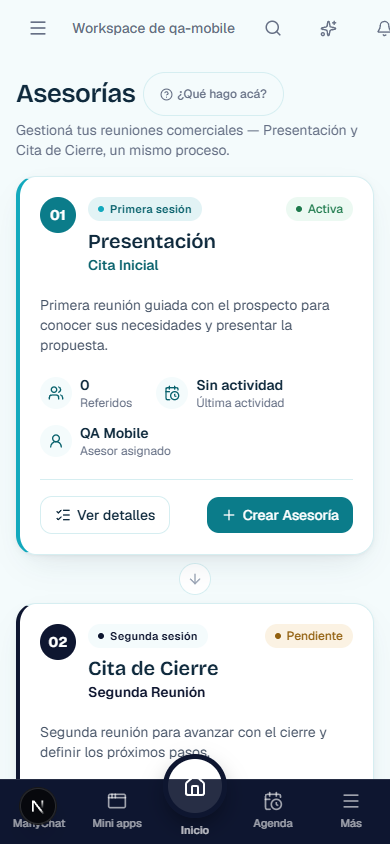
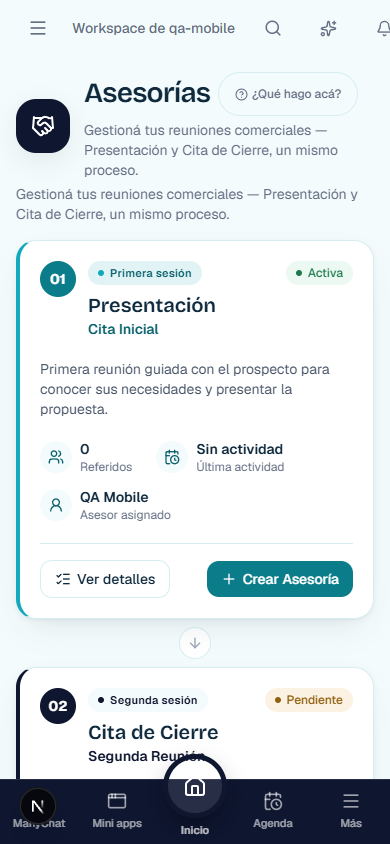
feat(rediseno): ícono y PageHeader en las páginas de solo título
Diez páginas escribían su título a mano sin ícono (Agentes IA,
Presentaciones, Importar/Exportar, Asistente, Aseguradoras, Prospectos,
Asesorías, Operaciones, ATS y Automatizaciones). Ahora usan PageHeader
con un ícono específico de cada función. PageHeader acepta un
titleAdornment para el botón de ayuda del módulo.

Changed region(s): [[0.0308, 0.0924, 0.8923, 0.6161], [0.0308, 0.5237, 0.9538, 0.9242], [0.6769, 0.2156, 0.9231, 0.2773]]

diff --git a/src/app/(protected)/automatizaciones/page.tsx b/src/app/(protected)/automatizaciones/page.tsx
@@ -1,3 +1,5 @@
+import { PageHeader } from "@/components/ui/PageHeader";
+import { Workflow } from "lucide-react";
 import { requireActiveWorkspace } from "@/lib/auth/session";
 import { getAutomationsBoard, getAutomationStats } from "@/lib/automationTemplates/queries";
 import { AutomationsShell } from "./AutomationsShell";
@@ -12,11 +14,7 @@ export default async function AutomatizacionesPage() {
     <div className="flex flex-col gap-4 py-4 sm:py-6 lg:py-8">
       <div className="flex flex-col gap-1 px-4 sm:px-6 lg:px-8">
         <p className="text-xs font-semibold uppercase tracking-wide text-accent-600">Biblioteca de automatizaciones</p>
-        <div className="flex items-center gap-2">
-          <h1 className="font-display text-[26px] leading-[32px] font-semibold tracking-[-0.02em] text-foreground">Automatizaciones</h1>
-          <ModuleHelp description="Las automatizaciones permiten que Growth Link haga tareas automáticamente por vos: cuando pasa algo (un mensaje, un lead nuevo), ejecuta una acción sola." tourKey="automations-intro" />
-        </div>
-        <p className="text-sm text-neutral-500">Automatizaciones inteligentes para ahorrar tiempo.</p>
+        <PageHeader icon={Workflow} title="Automatizaciones" description="Automatizaciones inteligentes para ahorrar tiempo." titleAdornment={<ModuleHelp description="Las automatizaciones permiten que Growth Link haga tareas automáticamente por vos: cuando pasa algo (un mensaje, un lead nuevo), ejecuta una acción sola." tourKey="automations-intro" />} />
         <p className="text-xs text-neutral-400">Activa únicamente las automatizaciones que quieras utilizar.</p>
       </div>
       <AutomationsShell initial={{ automations, stats }} />

diff --git a/src/app/(protected)/aseguradoras/page.tsx b/src/app/(protected)/aseguradoras/page.tsx
@@ -1,3 +1,5 @@
+import { PageHeader } from "@/components/ui/PageHeader";
+import { Link2 } from "lucide-react";
 import { requireActiveWorkspace } from "@/lib/auth/session";
 import { isModuleEnabled } from "@/lib/settings/queries";
 import { ModuleDisabledState } from "@/components/layout/ModuleDisabledState";
@@ -16,11 +18,7 @@ export default async function AseguradorasPage() {
     <div className="flex flex-col gap-4 py-4 sm:py-6 lg:py-8">
       <div className="flex flex-col gap-1 px-4 sm:px-6 lg:px-8">
         <p className="text-xs font-semibold uppercase tracking-wide text-accent-600">Centro de Integraciones</p>
-        <div className="flex items-center gap-2">
-          <h1 className="font-display text-[26px] leading-[32px] font-semibold tracking-[-0.02em] text-foreground">Conexión con Aseguradoras</h1>
-          <ModuleHelp description="Acá podés consultar y gestionar la información relacionada con aseguradoras — conectá cada compañía para sincronizar tu cartera." tourKey="providers-intro" />
-        </div>
-        <p className="text-sm text-neutral-500">Conectá cada compañía y sincronizá tu cartera sin volver a cargar nada a mano.</p>
+        <PageHeader icon={Link2} title="Conexión con Aseguradoras" description="Conectá cada compañía y sincronizá tu cartera sin volver a cargar nada a mano." titleAdornment={<ModuleHelp description="Acá podés consultar y gestionar la información relacionada con aseguradoras — conectá cada compañía para sincronizar tu cartera." tourKey="providers-intro" />} />
       </div>
       <AseguradorasShell initialProviders={providers} initialSummary={summary} />
     </div>

diff --git a/src/app/(protected)/importar-exportar/page.tsx b/src/app/(protected)/importar-exportar/page.tsx
@@ -1,3 +1,5 @@
+import { PageHeader } from "@/components/ui/PageHeader";
+import { FileSpreadsheet } from "lucide-react";
 import { requireActiveWorkspace } from "@/lib/auth/session";
 import { isModuleEnabled } from "@/lib/settings/queries";
 import { ModuleDisabledState } from "@/components/layout/ModuleDisabledState";
@@ -23,11 +25,7 @@ export default async function ImportarExportarPage() {
     <div className="flex flex-col gap-4 py-4 sm:py-6 lg:py-8">
       <div className="flex flex-col gap-1 px-4 sm:px-6 lg:px-8">
         <p className="text-xs font-semibold uppercase tracking-wide text-accent-600">Tus datos, tuyos</p>
-        <div className="flex items-center gap-2">
-          <h1 className="font-display text-[26px] leading-[32px] font-semibold tracking-[-0.02em] text-foreground">Importar / Exportar</h1>
-          <ModuleHelp description="Desde acá podés importar información a Growth Link (CSV/Excel) o exportar tus datos cuando quieras." tourKey="data-transfer-intro" />
-        </div>
-        <p className="text-sm text-neutral-500">Trae tu cartera en minutos — llévatela cuando quieras</p>
+        <PageHeader icon={FileSpreadsheet} title="Importar / Exportar" description="Trae tu cartera en minutos — llévatela cuando quieras" titleAdornment={<ModuleHelp description="Desde acá podés importar información a Growth Link (CSV/Excel) o exportar tus datos cuando quieras." tourKey="data-transfer-intro" />} />
       </div>
       <ImportExportShell initialHistory={history} initialBackups={backups} initialSync={{ googleSheets, googleDrive }} />
     </div>

diff --git a/src/app/(protected)/asesorias/page.tsx b/src/app/(protected)/asesorias/page.tsx
@@ -1,3 +1,5 @@
+import { PageHeader } from "@/components/ui/PageHeader";
+import { Handshake } from "lucide-react";
 import type { Metadata } from "next";
 import { requireUser, requireActiveWorkspace } from "@/lib/auth/session";
 import { isModuleEnabled } from "@/lib/settings/queries";
@@ -28,11 +30,7 @@ export default async function AsesoriasPage() {
     <div className="flex flex-col gap-4 py-4 sm:py-6 lg:py-8">
       <RealtimeRefresh workspaceId={workspaceId} tables={["asesorias", "asesoria_referrals"]} />
       <div className="flex flex-col gap-1 px-4 sm:px-6 lg:px-8">
-        <div className="flex items-center gap-2">
-          <h1 className="font-display text-[26px] leading-[32px] font-semibold tracking-[-0.02em] text-foreground">Asesorías</h1>
-          <ModuleHelp description="Gestioná tus reuniones comerciales — Presentación y Cita de Cierre, un mismo proceso guiado." tourKey="asesorias-intro" />
-        </div>
-        <p className="text-sm text-neutral-500">Gestioná tus reuniones comerciales — Presentación y Cita de Cierre, un mismo proceso.</p>
+        <PageHeader icon={Handshake} title="Asesorías" description="Gestioná tus reuniones comerciales — Presentación y Cita de Cierre, un mismo proceso." titleAdornment={<ModuleHelp description="Gestioná tus reuniones comerciales — Presentación y Cita de Cierre, un mismo proceso guiado." tourKey="asesorias-intro" />} />
       </div>
       <div className="px-4 sm:px-6 lg:px-8">
         <AsesoriaStageOverview referidos={referidos} lastActivityAt={lastActivityAt} advisorName={advisorName} />

diff --git a/src/app/(protected)/presentaciones/page.tsx b/src/app/(protected)/presentaciones/page.tsx
@@ -1,3 +1,5 @@
+import { PageHeader } from "@/components/ui/PageHeader";
+import { Projector } from "lucide-react";
 import type { Metadata } from "next";
 import { requireActiveWorkspace } from "@/lib/auth/session";
 import { isModuleEnabled } from "@/lib/settings/queries";
@@ -20,11 +22,7 @@ export default async function PresentationsPage() {
     <div className="flex flex-col gap-4 py-4 sm:py-6 lg:py-8">
       <div className="flex flex-col gap-1 px-4 sm:px-6 lg:px-8">
         <p className="text-xs font-semibold uppercase tracking-wide text-accent-600">✨ Potenciado con IA</p>
-        <div className="flex items-center gap-2">
-          <h1 className="font-display text-[26px] leading-[32px] font-semibold tracking-[-0.02em] text-foreground">Crear mi Presentación</h1>
-          <ModuleHelp description="Creá tu presentación profesional paso a paso — información, fotos, servicios, y la IA arma el contenido por vos." tourKey="presentations-intro" />
-        </div>
-        <p className="text-sm text-neutral-500">Generá presentaciones profesionales potenciadas con IA para mostrar a tus clientes.</p>
+        <PageHeader icon={Projector} title="Crear mi Presentación" description="Generá presentaciones profesionales potenciadas con IA para mostrar a tus clientes." titleAdornment={<ModuleHelp description="Creá tu presentación profesional paso a paso — información, fotos, servicios, y la IA arma el contenido por vos." tourKey="presentations-intro" />} />
       </div>
       <PresentationsShell initialItems={items} initialKpis={kpis} />
     </div>

diff --git a/src/app/(protected)/asistente/page.tsx b/src/app/(protected)/asistente/page.tsx
@@ -1,3 +1,5 @@
+import { PageHeader } from "@/components/ui/PageHeader";
+import { MessagesSquare } from "lucide-react";
 import type { Metadata } from "next";
 import { requireActiveWorkspace } from "@/lib/auth/session";
 import { isModuleEnabled } from "@/lib/settings/queries";
@@ -20,11 +22,7 @@ export default async function AssistantPage() {
   return (
     <div className="flex h-[calc(100vh-4rem)] max-md:h-[calc(100dvh-4rem)] flex-col gap-4 py-4 sm:py-6 lg:py-8">
       <div className="flex flex-col gap-1 px-4 sm:px-6 lg:px-8">
-        <div className="flex items-center gap-2">
-          <h1 className="font-display text-[26px] leading-[32px] font-semibold tracking-[-0.02em] text-foreground">Asistente IA</h1>
-          <ModuleHelp description="Pedile ayuda para analizar información, resolver dudas o trabajar con tus datos, en lenguaje natural." tourKey="assistant-intro" />
-        </div>
-        <p className="text-sm text-neutral-500">Tu copiloto dentro del CRM — pedile cosas en lenguaje natural</p>
+        <PageHeader icon={MessagesSquare} title="Asistente IA" description="Tu copiloto dentro del CRM — pedile cosas en lenguaje natural" titleAdornment={<ModuleHelp description="Pedile ayuda para analizar información, resolver dudas o trabajar con tus datos, en lenguaje natural." tourKey="assistant-intro" />} />
       </div>
       <AssistantShell conversationId={conversationId} initialMessages={messages} initialDashboard={dashboard} />
     </div>

diff --git a/src/app/(protected)/agentes-ia/page.tsx b/src/app/(protected)/agentes-ia/page.tsx
@@ -1,3 +1,5 @@
+import { PageHeader } from "@/components/ui/PageHeader";
+import { BrainCircuit } from "lucide-react";
 import type { Metadata } from "next";
 import { requireActiveWorkspace } from "@/lib/auth/session";
 import { getAiAgentList, getAiAgentListStats, type AgentListStats } from "@/lib/ai-agents/queries";
@@ -26,11 +28,7 @@ export default async function AgentesIaPage() {
   return (
     <div className="flex flex-col gap-4 p-4 sm:p-6 lg:p-8">
       <div>
-        <div className="flex items-center gap-2">
-          <h1 className="font-display text-[26px] leading-[32px] font-semibold tracking-[-0.02em] text-foreground">Agentes IA</h1>
-          <ModuleHelp description="Los Agentes IA son asistentes especializados: reciben información, la procesan, ejecutan una tarea y te devuelven un resultado." tourKey="ai-agents-intro" />
-        </div>
-        <p className="text-sm text-neutral-500">Creá, configurá y supervisá agentes inteligentes que trabajan dentro de Growth Link.</p>
+        <PageHeader icon={BrainCircuit} title="Agentes IA" description="Creá, configurá y supervisá agentes inteligentes que trabajan dentro de Growth Link." titleAdornment={<ModuleHelp description="Los Agentes IA son asistentes especializados: reciben información, la procesan, ejecutan una tarea y te devuelven un resultado." tourKey="ai-agents-intro" />} />
       </div>
       <AiAgentsSection initialAgents={aiAgents} stats={stats} />
     </div>

diff --git a/src/app/(protected)/advisors/page.tsx b/src/app/(protected)/advisors/page.tsx
@@ -1,3 +1,5 @@
+import { PageHeader } from "@/components/ui/PageHeader";
+import { UserSearch } from "lucide-react";
 import type { Metadata } from "next";
 import { requireActiveWorkspace } from "@/lib/auth/session";
 import { getAdvisorsBoard } from "@/lib/advisors/queries";
@@ -17,11 +19,7 @@ export default async function AdvisorsPage() {
   return (
     <div className="flex flex-col gap-4 py-4 sm:py-6 lg:py-8">
       <div className="flex flex-col gap-1 px-4 sm:px-6 lg:px-8">
-        <div className="flex items-center gap-2">
-          <h1 className="font-display text-[26px] leading-[32px] font-semibold tracking-[-0.02em] text-foreground">Prospectos</h1>
-          <ModuleHelp description="Gestioná tus prospectos — creá uno nuevo, importá tu cartera existente, y hacé seguimiento de cada uno." tourKey="advisors-intro" />
-        </div>
-        <p className="text-sm text-neutral-500">Pólizas y clientes para agentes de seguros y asesores financieros.</p>
+        <PageHeader icon={UserSearch} title="Prospectos" description="Pólizas y clientes para agentes de seguros y asesores financieros." titleAdornment={<ModuleHelp description="Gestioná tus prospectos — creá uno nuevo, importá tu cartera existente, y hacé seguimiento de cada uno." tourKey="advisors-intro" />} />
       </div>
       <AdvisorsBoardShell initialBoard={board} members={members} />
     </div>

diff --git a/src/app/(protected)/operaciones/page.tsx b/src/app/(protected)/operaciones/page.tsx
@@ -1,5 +1,6 @@
+import { PageHeader } from "@/components/ui/PageHeader";
 import type { Metadata } from "next";
-import { Workflow } from "lucide-react";
+import { Workflow, Wrench } from "lucide-react";
 import { OperacionesOverview } from "./OperacionesOverview";
 import { ModuleHelp } from "@/components/onboarding/ModuleHelp";
 
@@ -13,11 +14,7 @@ export default function OperacionesPage() {
           <Workflow className="size-5" aria-hidden="true" />
         </div>
         <div className="flex flex-col gap-1">
-          <div className="flex items-center gap-2">
-            <h1 className="font-display text-[26px] leading-[32px] font-semibold tracking-[-0.02em] text-foreground">Operaciones</h1>
-            <ModuleHelp description="Este módulo centraliza dos herramientas internas de tu equipo." tourKey="operations-intro" />
-          </div>
-          <p className="text-sm text-neutral-500">Herramientas internas — solo owner/admin.</p>
+          <PageHeader icon={Wrench} title="Operaciones" description="Herramientas internas — solo owner/admin." titleAdornment={<ModuleHelp description="Este módulo centraliza dos herramientas internas de tu equipo." tourKey="operations-intro" />} />
         </div>
       </div>
 

diff --git a/src/app/(protected)/ats/page.tsx b/src/app/(protected)/ats/page.tsx
@@ -1,3 +1,5 @@
+import { PageHeader } from "@/components/ui/PageHeader";
+import { BriefcaseBusiness } from "lucide-react";
 import type { Metadata } from "next";
 import { forbidden } from "next/navigation";
 import { requireActiveWorkspace } from "@/lib/auth/session";
@@ -36,11 +38,7 @@ export default async function AtsPage() {
       </div>
       <div className="flex flex-col gap-4 px-4 sm:px-6 lg:px-8">
         <div className="flex flex-col gap-1">
-          <div className="flex items-center gap-2">
-            <h1 className="font-display text-[26px] leading-[32px] font-semibold tracking-[-0.02em] text-foreground">ATS</h1>
-            <ModuleHelp description="Gestioná tus vacantes abiertas y el tablero de candidatos de cada una." tourKey="ats-intro" />
-          </div>
-          <p className="text-sm text-neutral-500">Vacantes abiertas y su tablero de candidatos.</p>
+          <PageHeader icon={BriefcaseBusiness} title="ATS" description="Vacantes abiertas y su tablero de candidatos." titleAdornment={<ModuleHelp description="Gestioná tus vacantes abiertas y el tablero de candidatos de cada una." tourKey="ats-intro" />} />
         </div>
 
         <VacancyList vacancies={vacancies} />

diff --git a/src/components/ui/PageHeader.tsx b/src/components/ui/PageHeader.tsx
@@ -8,12 +8,15 @@ export function PageHeader({
   icon: Icon,
   title,
   description,
+  titleAdornment,
   actions,
   className,
 }: {
   icon?: LucideIcon;
   title: string;
   description?: ReactNode;
+  /** Algo chico junto al título (p. ej. el botón de ayuda del módulo). */
+  titleAdornment?: ReactNode;
   actions?: ReactNode;
   className?: string;
 }) {
@@ -25,9 +28,12 @@ export function PageHeader({
         </span>
       )}
       <div className="min-w-[12rem] flex-1">
-        <h1 className="font-display text-[28px] leading-[1.05] font-semibold tracking-[-0.03em] text-foreground sm:text-[32px]">
-          {title}
-        </h1>
+        <div className="flex flex-wrap items-center gap-2">
+          <h1 className="font-display text-[28px] leading-[1.05] font-semibold tracking-[-0.03em] text-foreground sm:text-[32px]">
+            {title}
+          </h1>
+          {titleAdornment}
+        </div>
         {description && <p className="mt-1 text-sm text-neutral-500">{description}</p>}
       </div>
       {actions && <div className="flex shrink-0 items-center gap-2">{actions}</div>}
